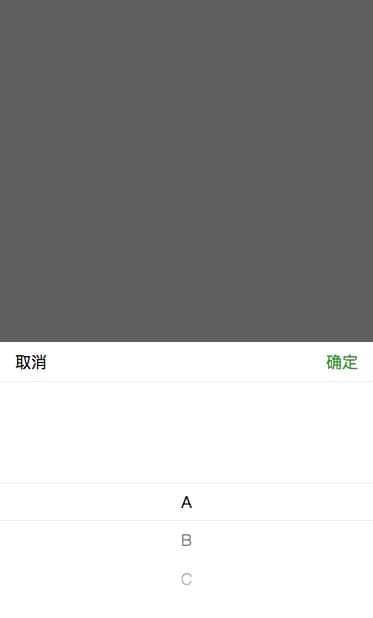
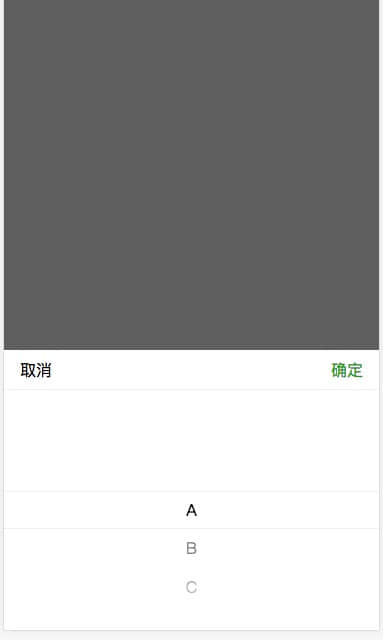
image replace

Changed region(s): [[0.0, 0.0, 1.0, 0.6149], [0.4718, 0.7686, 0.5308, 0.9531]]

diff --git a/example/picker/index.js b/example/picker/index.js
@@ -48,7 +48,7 @@ class PickerDemo extends Component {
   constructor(props) {
     super(props);
     this.state = {
-      data: testData.data3,
+      data: testData.data2,
       pickerOptions: {
         // depth: 1,
         // type: 'cityPicker',
@@ -82,7 +82,7 @@ class PickerDemo extends Component {
         <Picker
           data={this.state.data}
           // value={this.state.value}
-          // options={this.state.pickerOptions}
+          options={this.state.pickerOptions}
           onChange={(data) => { this.onChange(data); }}
         >
           <div className="list-item">
